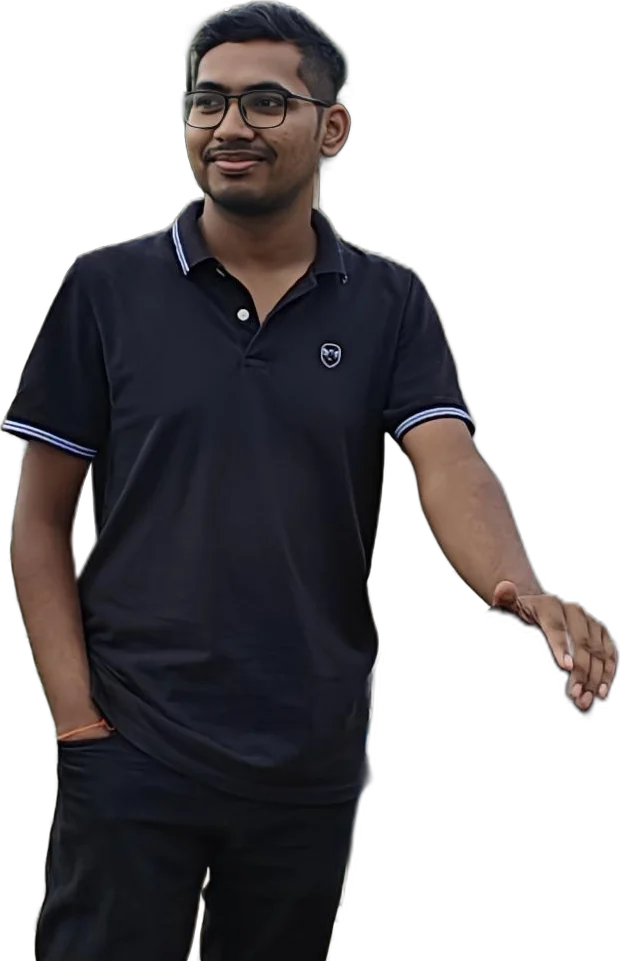
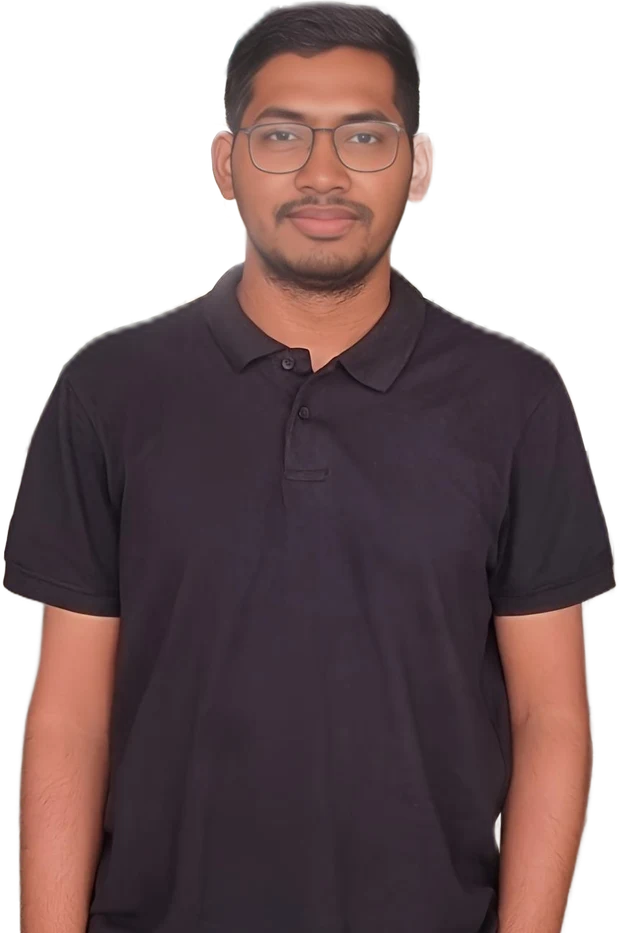
Hero: new photo (background removed) and matching hologram
Claude-Session: https://claude.ai/code/session_01EwvViSB7Q9LurmTSw5pJhv

diff --git a/index.html b/index.html
@@ -442,7 +442,7 @@ footer .wrap { display: flex; justify-content: space-between; gap: 16px; flex-wr
       <h1 class="bigname" data-build="box"><span class="l1">Amit Ranjan</span><span class="l2">Sahu</span></h1>
       <div class="cut">
         <div class="disc"></div>
-        <img src="assets/amit-cutout.webp" alt="Amit Ranjan Sahu" width="620" height="961">
+        <img src="assets/amit-cutout.webp" alt="Amit Ranjan Sahu" width="620" height="933">
       </div>
       <div class="hero-foot">
         <div class="intro">
